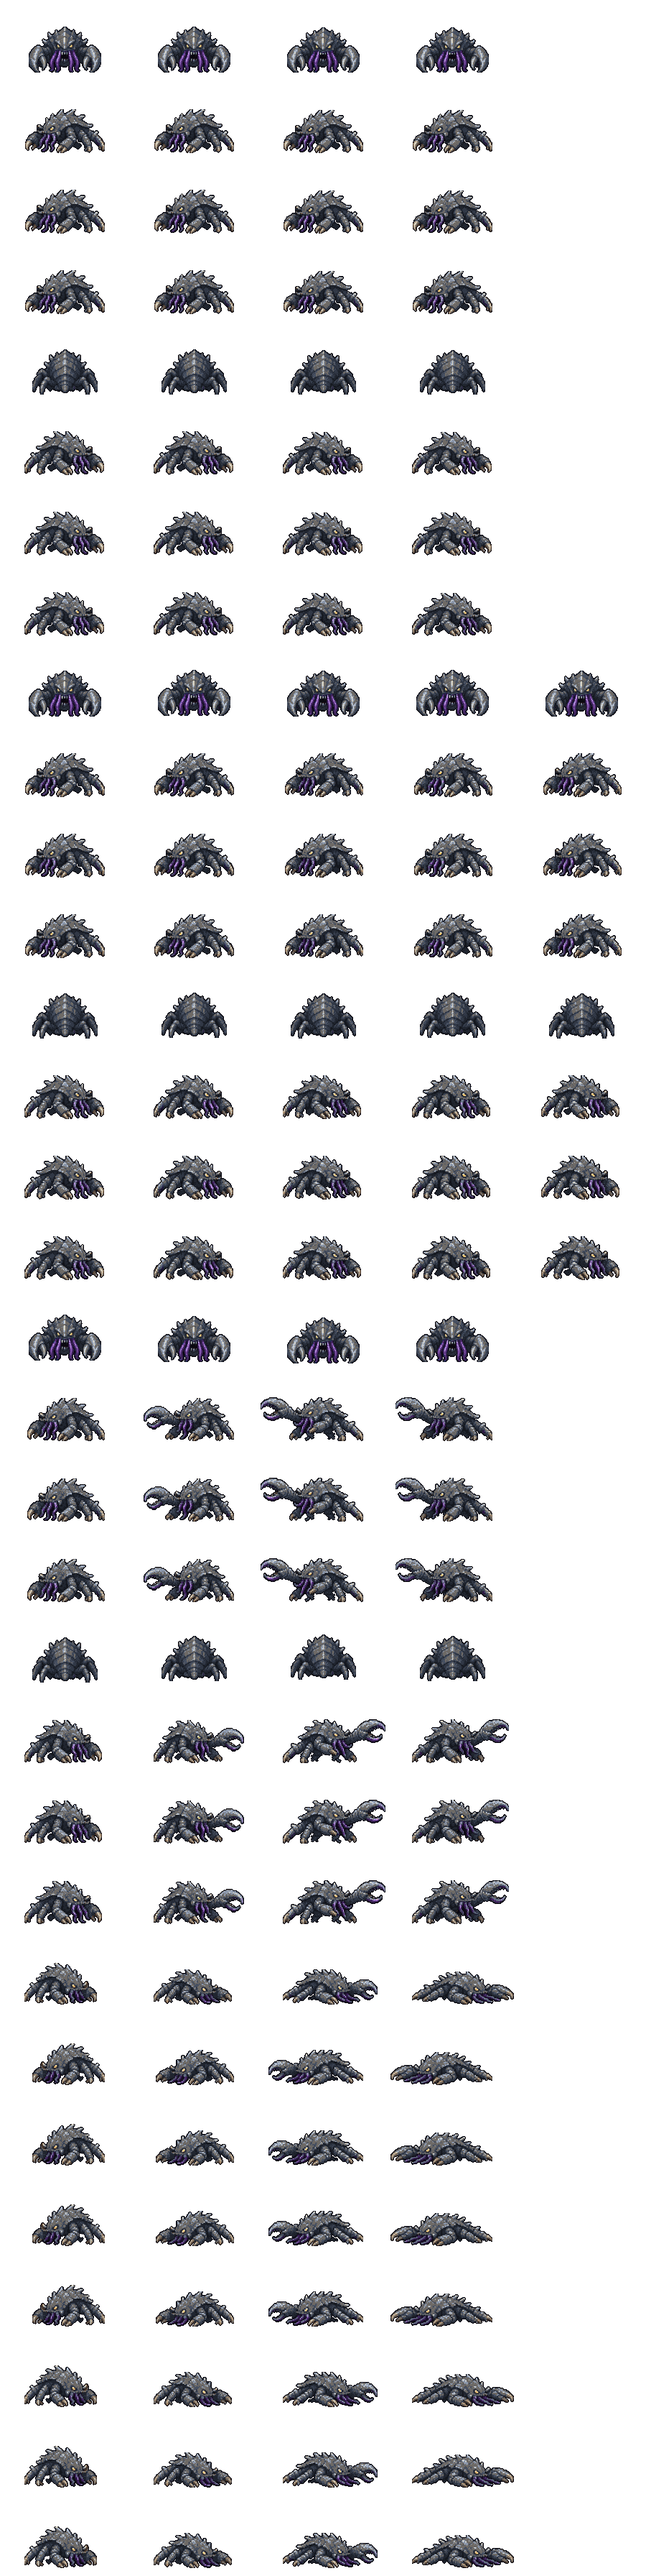
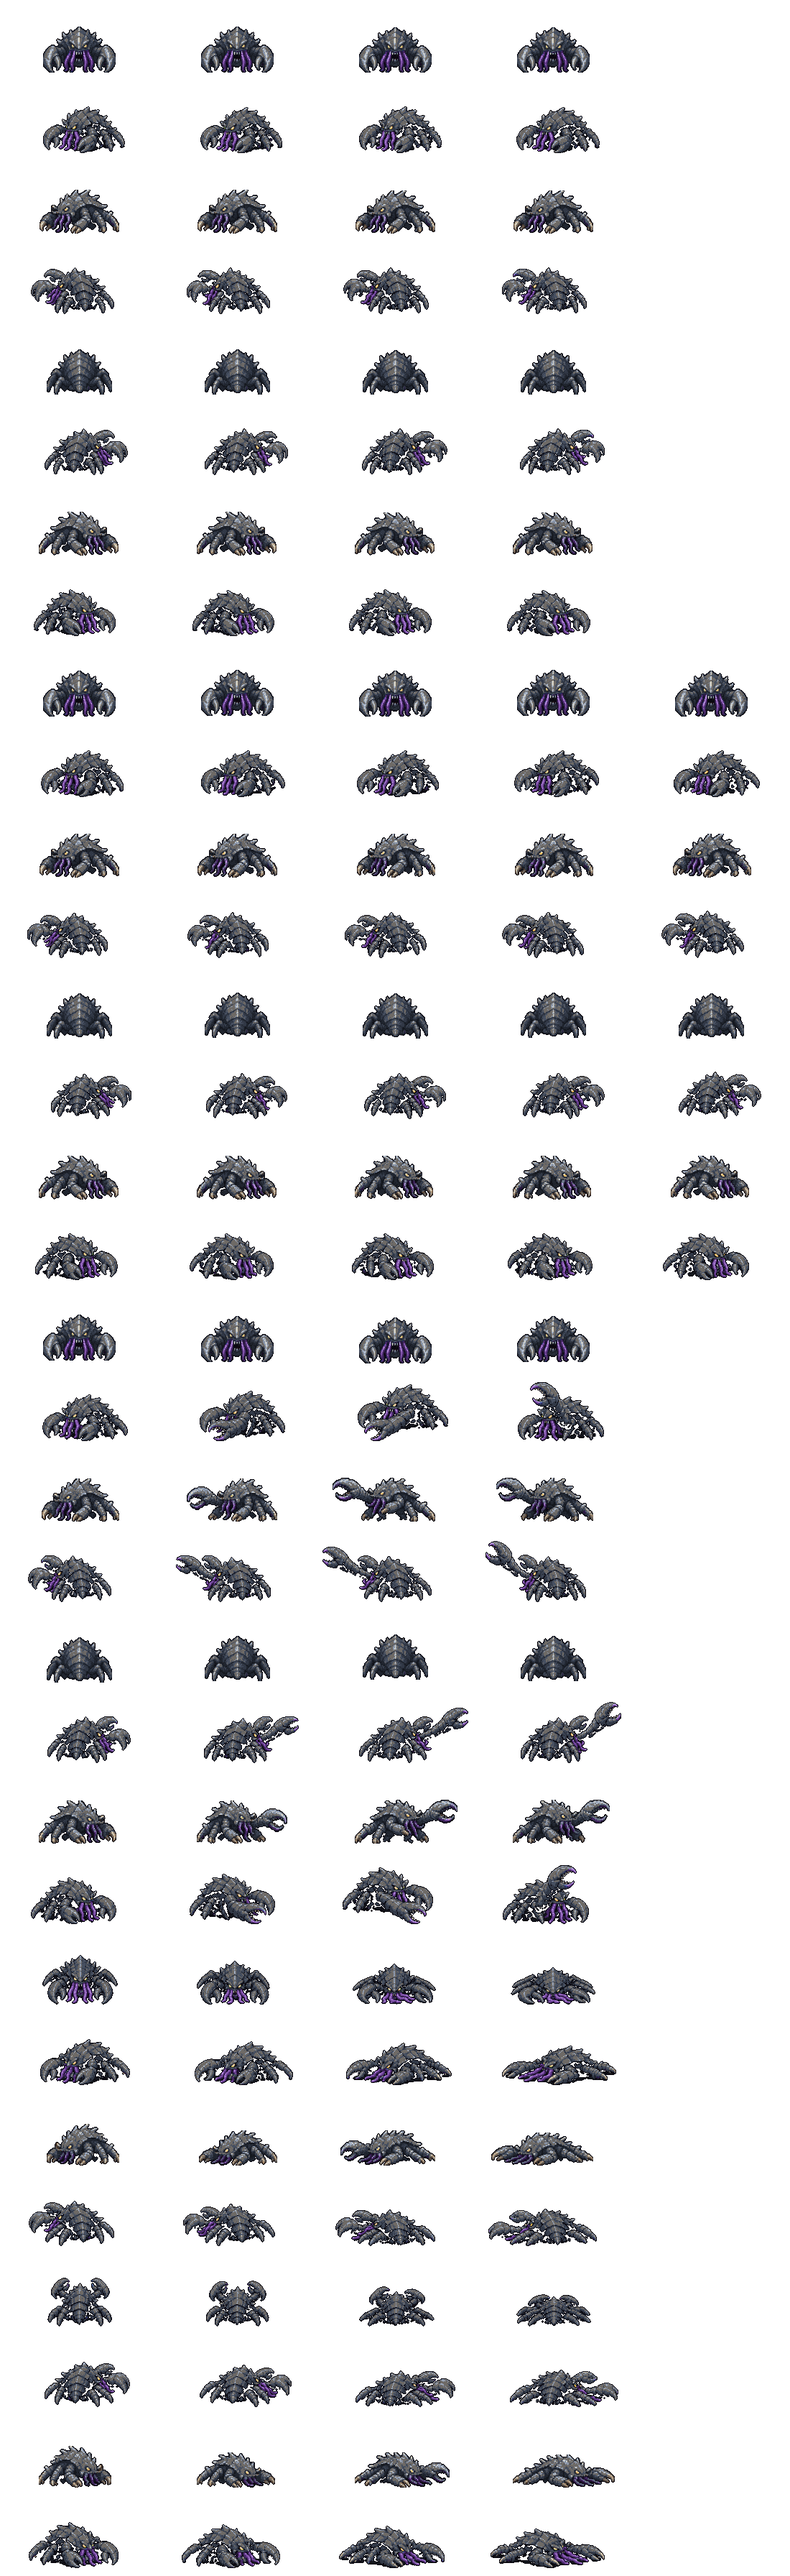
The chuul in all eight facings: the art desk's ART-43 cut onto chuul_p2 (SE/SW, NE/NW every row; S and N their fall)
ART-43's four pages (sorted out of Fresh to deep16/_src/chuul/ART-43/) cut by their own row and number labels in
tools/chuul-sheet.py: SE and NE Idle 4, Walk 5, Claw 4 and Fall 4 (idle, walk, attack, hurt), S and N Fall 4; SW and NW mirrored.
Each page regraded as the Grok pages are (the shell by its own brightness onto wet slate, the tentacles bruise-violet), K by
area (the diagonals' idle against the side idle and the front still between them; S's and N's Fall 1 against the Front and
Back stills), each frame's shell middle on the anchor and its lowest row on the foot. The cells 220 wide now (AX 110): the
diagonals' pincers reach 102 px from the shell; E and W and the S and N stills anchor for anchor as before. Two label traps
(SE Claw 4's pincer gleams in the Walk's numbers; NE Claw 3's jaw) settled by numbers given by hand. The grapple (its Pincer,
`attack`) and the swim (drawn whole in water) play these rows as they did.

Griz, 2026-10-21, to the lanes desk: "Spin a single monster cutter instance up (choose your own from Fresh!) and have one
going after another finishes until we approach session limit (90%)".

diff --git a/deep16/data/sprites.js b/deep16/data/sprites.js
@@ -2231,51 +2231,51 @@
 }
 },
 "chuul_p2": {
-"image": "art/chuul_p2.png?v=d64074d8f5",
-"fw": 180,
+"image": "art/chuul_p2.png?v=2059ef987f",
+"fw": 220,
 "fh": 112,
-"ax": 90,
+"ax": 110,
 "ay": 100,
 "top": 63,
 "anims": {
 "idle": {
 "y": 0,
-"fw": 180,
+"fw": 220,
 "fh": 112,
-"ax": 90,
+"ax": 110,
 "ay": 100,
 "frames": 4,
 "fps": 2
 },
 "walk": {
 "y": 896,
-"fw": 180,
+"fw": 220,
 "fh": 112,
-"ax": 90,
+"ax": 110,
 "ay": 100,
 "frames": 5,
 "fps": 8
 },
 "attack": {
 "y": 1792,
-"fw": 180,
+"fw": 220,
 "fh": 112,
-"ax": 90,
+"ax": 110,
 "ay": 100,
 "frames": 4,
 "fps": 8
 },
 "hurt": {
 "y": 2688,
-"fw": 180,
+"fw": 220,
 "fh": 112,
-"ax": 90,
+"ax": 110,
 "ay": 100,
 "frames": 4,
 "fps": 6
 }
 },
-"source": "generated by Griz with Grok (2026-09-27), regraded to wet stone and cleaned by tools/chuul-sheet.py"
+"source": "generated by Griz with Grok (2026-09-27; the side rows, the Front and Back stills) and the art desk (2026-10-17, ART-43: SE and NE every row, the fall from the front and behind), regraded to wet stone and cleaned by tools/chuul-sheet.py"
 },
 "clacker_p2": {
 "image": "art/clacker_p2.png?v=5b7af6c042",

diff --git a/deep16/index.html b/deep16/index.html
@@ -77,7 +77,7 @@
 <script src="js/art.js?v=e1ce4cf012"></script>
 <script src="data/cavern.js?v=647c1a184a"></script>
 <script src="data/maps.js?v=971b4fe9e6"></script>
-<script src="data/sprites.js?v=a9fc8e6ca2"></script>
+<script src="data/sprites.js?v=c16dee93f3"></script>
 <script src="js/sprites.js?v=132505c283"></script>
 <script src="js/save.js?v=1191d6f29a"></script>
 <script src="data/spells.js?v=b819b6e987"></script>

diff --git a/tools/chuul-sheet.py b/tools/chuul-sheet.py
@@ -9,9 +9,16 @@ The two pages were drawn in different hands (page 1 bright teal, page 2 darker g
 "the colour of wet stone" (Griz, 09-27: "he's supposed to be more colored like a wet stone"), so both are regraded
 the same way before the palette snap: the shell by its brightness onto wet slate (a glint kept on the highest lights),
 the tentacles and gullet to a dull bruise-violet, the claw tips to bone, the eyes left yellow.
-Facings: the front and back views take S and N; the side frames take the other six (mirrored for the west side).
+Facings (until ART-43): the front and back views take S and N; the side frames take the other six (mirrored for the west side).
+ART-43 (10-21): the art desk drew the views the sheet lacked (RULED 10-14, five drawn views: S, SE, E, NE, N; SE mirrors to SW, E to W,
+NE to NW), four pages in deep16/_src/chuul/ART-43/ (sorted out of Fresh by its ART-43-sort.py; the desk's papers in
+_src/art-desk/received-2026-10-21-ART-43-chuul-FINAL-SHEETS/), cut by their own row and number labels (tools/sheetrows.py): HEAD 1 SE and
+HEAD 2 NE Idle 4, Walk 5, Claw 4, Fall 4 (idle, walk, attack, hurt); HEAD 3 S and HEAD 5 N their Fall. E and W keep the side rows, S and N
+the Front and Back stills for idle, walk and attack. Every page regraded as the Grok pages are (the shell by its brightness onto wet slate,
+its own range), scaled by K43, each frame's shell middle on the anchor column and its lowest row on the foot, as the side rows stand.
+    python tools/chuul-sheet.py check      dev/visions/chuul/: each ART-43 page's cut, every facing of every row
 """
-import os, sys, json
+import os, sys, json, subprocess
 import numpy as np
 from PIL import Image
 from scipy import ndimage
@@ -21,10 +28,17 @@ import importlib.util
 spec = importlib.util.spec_from_file_location('pix', os.path.join(ROOT, 'tools', 'pixelate.py'))
 pix = importlib.util.module_from_spec(spec); spec.loader.exec_module(pix)
 
-SRC = os.path.join(ROOT, 'deep16', '_src')
+spec = importlib.util.spec_from_file_location('sheetrows', os.path.join(ROOT, 'tools', 'sheetrows.py'))
+SR = importlib.util.module_from_spec(spec); spec.loader.exec_module(SR)
+
+SRC = os.path.join(ROOT, 'deep16', '_src')                 # his sheets live in the main checkout (_src is not in git): a worktree reads them there
+if not os.path.exists(os.path.join(SRC, 'chuul_grok_1.webp')):
+    _common = subprocess.run(['git', '-C', ROOT, 'rev-parse', '--git-common-dir'], capture_output=True, text=True).stdout.strip()
+    SRC = os.path.join(os.path.dirname(os.path.abspath(os.path.join(ROOT, _common))), 'deep16', '_src')
 PAGE1 = np.asarray(Image.open(os.path.join(SRC, 'chuul_grok_1.webp')).convert('RGB')).astype(np.int32)
 PAGE2 = np.asarray(Image.open(os.path.join(SRC, 'chuul_grok_2.webp')).convert('RGB')).astype(np.int32)
-FW, FH, AX, AY = 180, 112, 90, 100
+FW, FH, AX, AY = 220, 112, 110, 100      # (220 wide since ART-43, the anchor at its middle: the diagonals' pincers reach 102 px from the shell and
+                                         # their falls sprawl 180 wide; every Grok frame placed against the anchor as before, 20 px of air each side)
 FRONT_H, SIDE_H = 64, 61     # Large: a head taller than the humans' 56 from the front, the side a touch lower
 
 # boxes (x0, y0, x1, y1), from a component pass over the sheets
@@ -128,7 +142,116 @@ def breathe(fr):
     return o
 
 
-def main():
+# ART-43 (10-21): the art desk's four pages. Per page: text boxes (each row's name -- at its left, but HEAD 3's Fall over its first frame --
+# and each number strip the width of the page), and the rows -- (the sheet's row, band x0 y0 x1 y1, its number strip). HEAD 1's and HEAD 2's
+# Claw 4 lifts its pincer to the Walk's numbers: the Claw's band starts above them (a number lies wholly in its strip's box, a pincer not).
+ART43 = os.path.join(SRC, 'chuul', 'ART-43')
+PAGES43 = {
+    'H1P1': dict(file='ART-43_HEAD-1_PAGE-1.png', W=1774, text=[(0, 99, 95, 134), (0, 314, 95, 349), (0, 540, 95, 576), (0, 747, 95, 782)],
+                 rows=[('idle', (0, 15, 1774, 219), (195, 216)), ('walk', (0, 225, 1774, 419), (411, 433)),   # (the band ends over Claw 4's pincer, lifted into these numbers: HAND43)
+                       ('attack', (0, 405, 1774, 661), (637, 658)), ('hurt', (0, 672, 1774, 869), (845, 866))]),
+    'H2P1': dict(file='ART-43_HEAD-2_PAGE-1.png', W=1672, text=[(0, 103, 95, 137), (0, 322, 95, 357), (0, 546, 95, 580), (0, 763, 95, 798)],
+                 rows=[('idle', (0, 15, 1672, 225), (202, 222)), ('walk', (0, 230, 1672, 435), (412, 432)),
+                       ('attack', (0, 415, 1672, 675), (652, 672)), ('hurt', (0, 680, 1672, 892), (868, 889))]),
+    'H3P1': dict(file='ART-43_HEAD-3_PAGE-1.png', W=2172, text=[(110, 128, 255, 186)], rows=[('hurt', (0, 186, 2172, 560), (519, 557))]),
+    'H5P1': dict(file='ART-43_HEAD-5_PAGE-1.png', W=2172, text=[(0, 314, 130, 364)], rows=[('hurt', (0, 195, 2172, 570), (527, 567))]),
+}
+VIEWS43 = {'SE': 'H1P1', 'NE': 'H2P1', 'S': 'H3P1', 'N': 'H5P1'}
+HAND43 = {('H1P1', 'walk'): [251, 593, 916, 1271, 1614], ('H1P1', 'attack'): [268, 618, 1067, 1436],
+          ('H2P1', 'attack'): [265, 620, 1100, 1384]}   # a row's numbers' x by hand (the probe's): SE
+# Claw 4's pincer gleams in the Walk's strip, a claw tip in its own; NE's Claw 3 printed at 984, given 1100: its pincer's lower jaw, parted from the
+# pincer by the dark lines, holds a core of its own nearer Claw 4's number (the frames are placed by the shell, not by their numbers)
+COUNT43 = {'idle': 4, 'walk': 5, 'attack': 4, 'hurt': 4}
+
+
+def cut43(L, check=False):
+    s = PAGES43[L]
+    spec = dict(text=s['text'] + [(0, l0 - 3, s['W'], l1 + 4) for _, _, (l0, l1) in s['rows']],
+                rows=[(r, b, l, [str(i + 1) for i in range(COUNT43[r])]) for r, b, l in s['rows']], chan=CHAN43)
+    over = [] if check else None
+    hand = {(b[0], l[0]): HAND43[(L, r)] for r, b, l in s['rows'] if (L, r) in HAND43}   # (sheetrows asks by the band's x0 and the strip's y0)
+    orig = SR.label_xs
+    SR.label_xs = lambda a, x0, x1, y0, y1: hand.get((x0, y0)) or orig(a, x0, x1, y0, y1)
+    try:
+        out = SR.cut_sheet(os.path.join(ART43, s['file']), spec, overlay=over, tag=L)
+    finally:
+        SR.label_xs = orig
+    if check:
+        d = os.path.join(ROOT, 'dev', 'visions', 'chuul'); os.makedirs(d, exist_ok=True)
+        over[0].save(os.path.join(d, 'cut-%s.png' % L))
+    return out
+
+
+CHAN43 = 30            # the mask: any one channel this far from the page's navy (the shell's darks are teal-black, neither grey nor far by the sum)
+
+
+def page_range(cuts):
+    """a page's shell brightness, 3rd and 98th percentile, as shell_range reads a Grok page's"""
+    vals = []
+    for frs in cuts.values():
+        for _, im, _ in frs:
+            a = np.asarray(im)
+            rgb = a[..., :3].astype(np.float32) / 255
+            h, s, v = hsv(rgb)
+            keep = (a[..., 3] > 0) & ~(((h > 250) & (h < 335) & (s > 0.18)) | ((h > 15) & (h < 75) & (s > 0.2)))
+            vals.append((rgb @ np.array([0.3, 0.55, 0.15], dtype=np.float32))[keep])
+    v = np.concatenate(vals)
+    return float(np.percentile(v, 3)), float(np.percentile(v, 98))
+
+
+def fig43(im, k, rng):
+    a = np.asarray(im)
+    img = regrade(a[..., :3].astype(np.int32), a[..., 3] > 0, *rng)
+    w, h = img.size
+    img = img.convert('RGBa').resize((max(1, round(w / k)), max(1, round(h / k))), Image.BOX).convert('RGBA')
+    pad = Image.new('RGBA', (img.width + 2, img.height + 2), (0, 0, 0, 0)); pad.paste(img, (1, 1))
+    return pix.pixelate(pad, 1, do_lift=False)
+
+
+def core_x(a):
+    """the shell's thick middle (the legs and the pincers are thin), the steadiest thing frame to frame"""
+    d = ndimage.distance_transform_edt(a[..., 3] > 0)
+    return float(np.where(d >= 0.7 * d.max())[1].mean())
+
+
+def k43(frs, rng, area):
+    """the K at which a row's frames come out `area` px drawn at game size (the median, outline in)"""
+    lo, hi = 1.5, 12.0
+    for _ in range(22):
+        k = (lo + hi) / 2
+        got = float(np.median([(fig43(im, k, rng)[..., 3] > 0).sum() for _, im, _ in frs]))
+        lo, hi = (k, hi) if got > area else (lo, k)
+    return (lo + hi) / 2
+
+
+def heads43(side_idle, front, back, check=False):
+    """ART-43's pages -> {view: {row: [frame, ...]}} at game size, each frame's shell middle on AX and its lowest row on AY. K by area: the
+    diagonals' Idle (the median) against the side idle and the front still between them (a diagonal sees the shell between the two); S's and
+    N's Fall 1 (standing, before it drops) against the Front and Back stills."""
+    drawn = lambda a: int((a[..., 3] > 0).sum())
+    cuts = {L: cut43(L, check) for L in PAGES43}
+    rng = {L: page_range(c) for L, c in cuts.items()}
+    K = {'H1P1': k43(cuts['H1P1']['idle'], rng['H1P1'], (drawn(side_idle) + drawn(front)) / 2),
+         'H2P1': k43(cuts['H2P1']['idle'], rng['H2P1'], (drawn(side_idle) + drawn(front)) / 2),
+         'H3P1': k43(cuts['H3P1']['hurt'][:1], rng['H3P1'], drawn(front)),
+         'H5P1': k43(cuts['H5P1']['hurt'][:1], rng['H5P1'], drawn(back))}
+    print('  K43: ' + ', '.join('%s %.2f' % kv for kv in K.items()) + '; the shell ranges ' + ', '.join('%s %.2f-%.2f' % ((L,) + r) for L, r in rng.items()))
+    out = {}
+    for v, L in VIEWS43.items():
+        out[v] = {}
+        for r, frs in cuts[L].items():
+            row = []
+            for nm, im, _ in frs:
+                a = fig43(im, K[L], rng[L])
+                fr = place(a, core_x(a))
+                if (fr[..., 3] > 0).sum() < (a[..., 3] > 0).sum():
+                    raise SystemExit('chuul %s %s %s: cut off at the frame edge' % (L, r, nm))
+                row.append(fr)
+            out[v][r] = row
+    return out
+
+
+def main(check=False):
     s1 = (FRONT[3] - FRONT[1]) / FRONT_H
     s2 = np.mean([b[3] - b[1] for b in WALK]) / SIDE_H
     r1, r2 = shell_range(PAGE1, [FRONT, BACK]), shell_range(PAGE2, WALK + CLAW)
@@ -168,13 +291,45 @@ def main():
         else:
             frames['idle'].append([idle_l, idle_l, breathe(idle_l), breathe(idle_l)])
             frames['walk'].append(walk_l); frames['attack'].append(claw_l); frames['hurt'].append(death_l)
+    # ART-43 (10-21): SE (SW mirrored) and NE (NW mirrored) every row, S and N their fall, in their own view (RULED 10-14, five drawn views)
+    hd = heads43(idle_r, fS, fN, check)
+    flip = lambda seq: [np.roll(fr[:, ::-1], 1, axis=1).copy() for fr in seq]      # (a pixel back: the anchor column stays put, FW even)
+    for f, v, m in ((7, 'SE', False), (1, 'SE', True), (5, 'NE', False), (3, 'NE', True), (0, 'S', False), (4, 'N', False)):
+        for r, fs in hd[v].items():
+            frames[r][f] = flip(fs) if m else fs
+    for r, rows in frames.items():
+        assert len({len(x) for x in rows}) == 1, r       # a row plays one frame count in every facing
+    if check:
+        facings(frames)
+        return
     pix.write_sheet('chuul_p2', frames, FW, FH, AX, AY, pix.top_of(frames['idle'][0] + frames['idle'][6], AY))
     meta_p = os.path.join(ROOT, 'deep16', 'art', 'chuul_p2.json')
     meta = json.load(open(meta_p))
     meta['anims']['idle']['fps'] = 2; meta['anims']['walk']['fps'] = 8; meta['anims']['attack']['fps'] = 8; meta['anims']['hurt']['fps'] = 6
-    meta['source'] = 'generated by Griz with Grok (2026-09-27), regraded to wet stone and cleaned by tools/chuul-sheet.py'
+    meta['source'] = ('generated by Griz with Grok (2026-09-27; the side rows, the Front and Back stills) and the art desk (2026-10-17, ART-43: SE and NE '
+                      'every row, the fall from the front and behind), regraded to wet stone and cleaned by tools/chuul-sheet.py')
     json.dump(meta, open(meta_p, 'w'), indent=1)
 
 
+FN = ['S', 'SW', 'W', 'NW', 'N', 'NE', 'E', 'SE']
+
+
+def facings(frames):
+    """dev/visions/chuul/facings-<row>.png: every facing of every row, S SW W NW N NE E SE top to bottom, 2x on grey, the foot's line drawn"""
+    from PIL import ImageDraw
+    d = os.path.join(ROOT, 'dev', 'visions', 'chuul'); os.makedirs(d, exist_ok=True)
+    for name, per in frames.items():
+        n = len(per[0])
+        cv = Image.new('RGBA', (FW * n + 4 * (n + 1), FH * 8), (70, 74, 70, 255))
+        dr = ImageDraw.Draw(cv)
+        for f in range(8):
+            dr.line([(0, f * FH + AY + 1), (cv.width, f * FH + AY + 1)], fill=(110, 114, 110, 255))
+            dr.text((2, f * FH + 2), FN[f], fill=(255, 255, 255, 255))
+            for i, fr in enumerate(per[f]):
+                cv.alpha_composite(Image.fromarray(fr, 'RGBA'), (4 + i * (FW + 4), f * FH))
+        cv.resize((cv.width * 2, cv.height * 2), Image.NEAREST).save(os.path.join(d, 'facings-%s.png' % name))
+    print('  wrote', d)
+
+
 if __name__ == '__main__':
-    main()
+    main(check='check' in sys.argv[1:])
